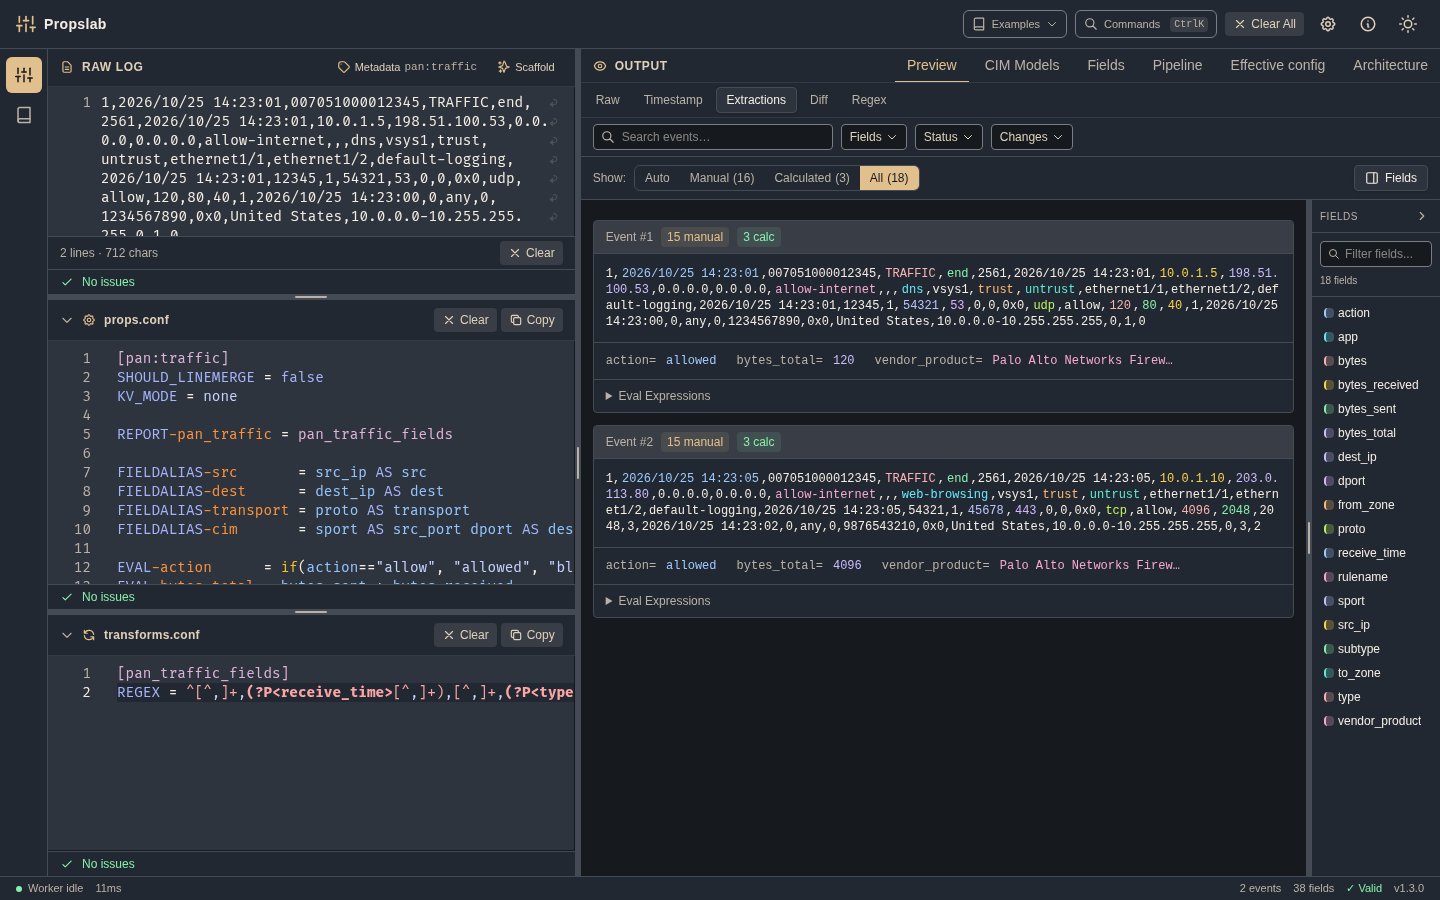
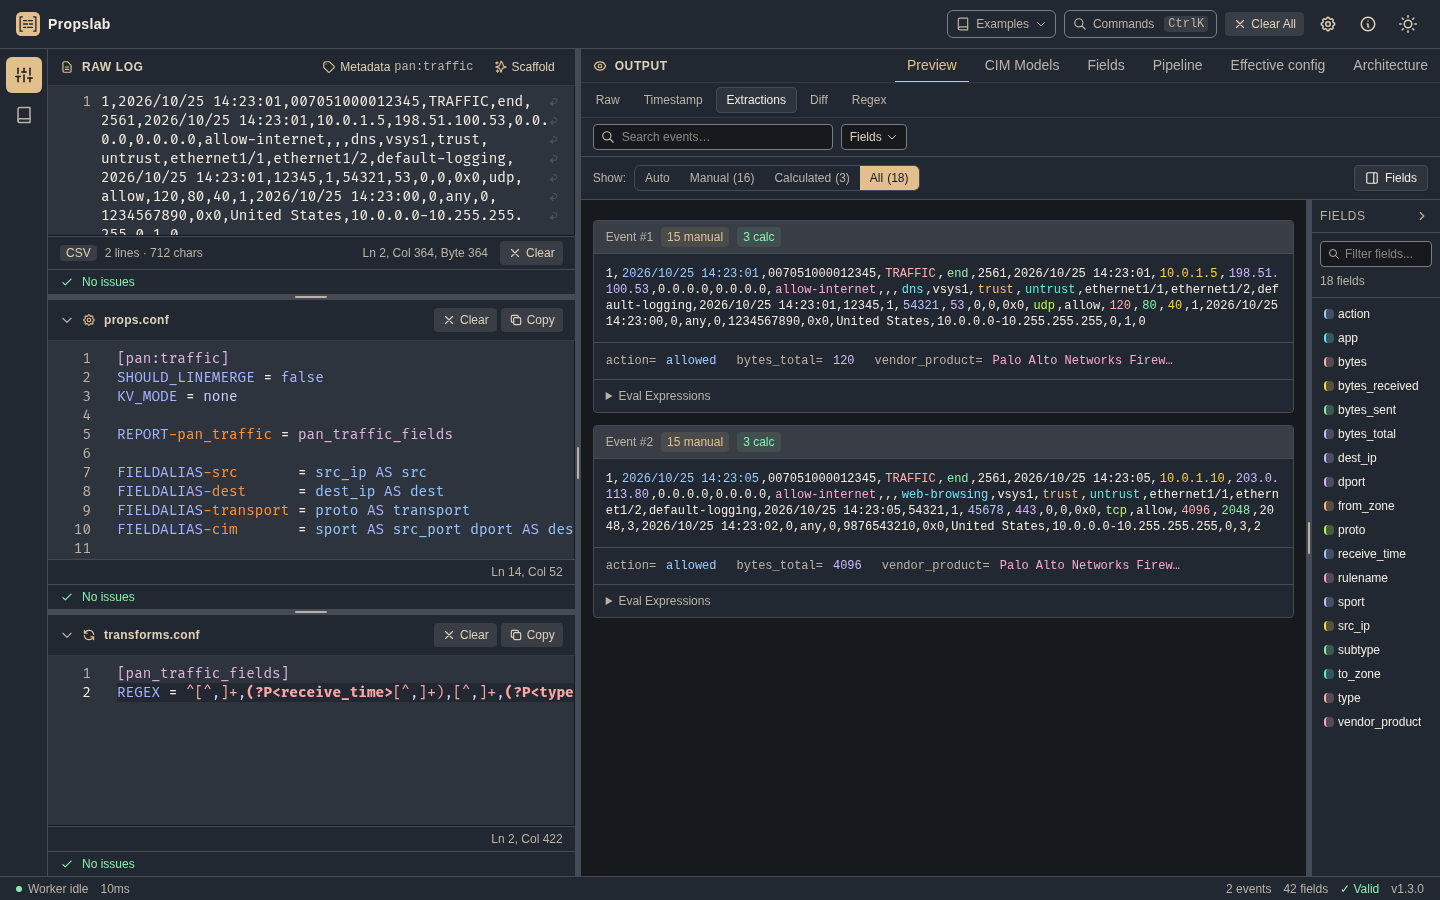
Retake the README screenshot, and keep the script that takes it (#765) (#766)
docs/assets/demo.png showed the old header mark, and the app as it was
before #740 to #743. It is taken again with #705's setup: the Palo Alto
Firewall example in Preview › Extractions, the dark theme, 1440x900.
The picture now shows the logo, the Raw Log footer's format chip (CSV)
and cursor position, and the status bar counting the default fields.

scripts/take-readme-screenshot.mjs takes it, run by
`npm run screenshot:readme`: it builds, serves dist/ with Vite's preview
server on a free port, takes the picture in Chromium and stops the
server. It fails when the page is not in the dark theme or the
first-run banner shows, which would otherwise give the wrong picture
without an error. docs/development.md lists the script, as its test
requires.

The README's alt text names the footer's format and cursor position.

Closes #765

diff --git a/README.md b/README.md
@@ -46,7 +46,7 @@ A test asserts the counts against the table itself, so they cannot become incorr
 
 ## Demo
 
-![Propslab with the Palo Alto Firewall example loaded. The left column holds the raw log, props.conf and transforms.conf, and the Raw Log header shows the sourcetype, pan:traffic. The Extractions tab on the right highlights the extracted fields in each event, and lists the 18 fields in a sidebar.](docs/assets/demo.png)
+![Propslab with the Palo Alto Firewall example loaded. The left column holds the raw log, props.conf and transforms.conf. The Raw Log header shows the sourcetype, pan:traffic, and its footer shows the format of the data, CSV, and the cursor position. The Extractions tab on the right highlights the extracted fields in each event, and lists the 18 fields in a sidebar.](docs/assets/demo.png)
 
 The bundled Palo Alto Firewall example: the Extractions tab highlights each extracted field in `_raw`. Eight more examples cover other data sources ([user guide](docs/user-guide.md#examples)).
 

diff --git a/docs/development.md b/docs/development.md
@@ -30,6 +30,7 @@ npm run test:e2e:ui  # …in Playwright's interactive runner
 npm run test:mutation # Stryker mutation testing
 npm run test:mutation:canary # 40-second check that Stryker still kills mutants (the vitest shim)
 npm run check:overrides # Verify the @radix-ui overrides match what the Radix packages pin, and that each scoped override is still needed
+npm run screenshot:readme # Build, then take the README screenshot (docs/assets/demo.png) again with the same setup
 ```
 
 [testing.md](testing.md) describes the two test suites.
